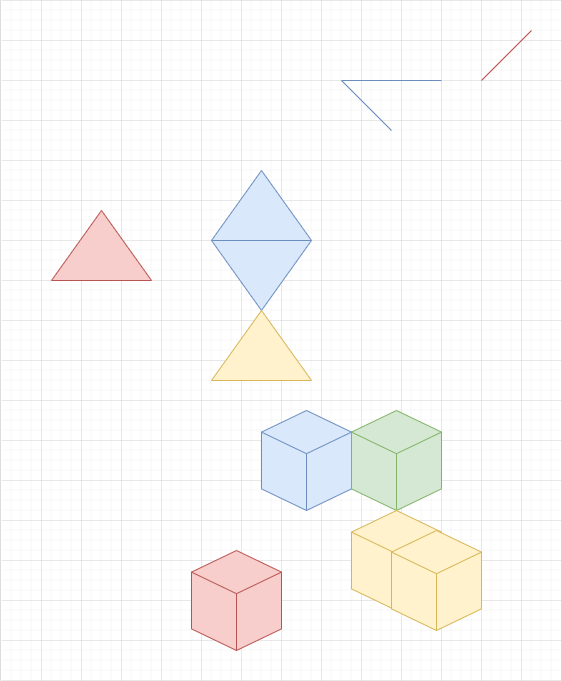
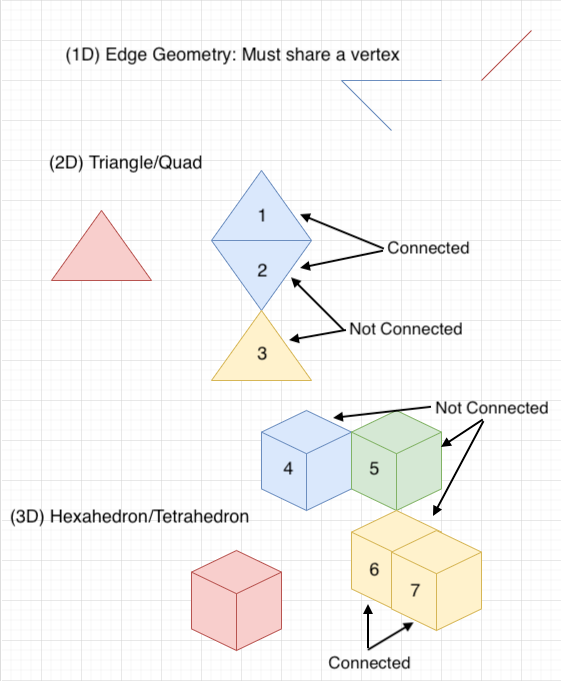
Update documentation, update unit tests. Add new example file

diff --git a/src/Plugins/SimplnxCore/test/CombineStlFilesTest.cpp b/src/Plugins/SimplnxCore/test/CombineStlFilesTest.cpp
@@ -21,16 +21,14 @@ inline const DataPath k_ExemplarTriangleDataContainerName({k_TriangleDataContain
 
 TEST_CASE("SimplnxCore::CombineStlFilesFilter: Valid Filter Execution", "[SimplnxCore][CombineStlFilesFilter]")
 {
-  const nx::core::UnitTest::TestFileSentinel testDataSentinel(nx::core::unit_test::k_CMakeExecutable, nx::core::unit_test::k_TestFilesDir, "6_6_combine_stl_files.tar.gz",
+  const nx::core::UnitTest::TestFileSentinel testDataSentinel(nx::core::unit_test::k_CMakeExecutable, nx::core::unit_test::k_TestFilesDir, "6_6_combine_stl_files_v2.tar.gz",
                                                               "6_6_combine_stl_files.dream3d");
 
-  const nx::core::UnitTest::TestFileSentinel testDataSentinel1(nx::core::unit_test::k_CMakeExecutable, nx::core::unit_test::k_TestFilesDir, "STL_Models.tar.gz", "STL_Models");
-
   // Read Exemplar DREAM3D File Filter
-  auto exemplarFilePath = fs::path(fmt::format("{}/6_6_combine_stl_files.dream3d", unit_test::k_TestFilesDir));
+  auto exemplarFilePath = fs::path(fmt::format("{}/6_6_combine_stl_files_v2/6_6_combine_stl_files.dream3d", unit_test::k_TestFilesDir));
   DataStructure dataStructure = UnitTest::LoadDataStructure(exemplarFilePath);
 
-  std::string inputStlDir = fmt::format("{}/STL_Models", unit_test::k_TestFilesDir.view());
+  std::string inputStlDir = fmt::format("{}/6_6_combine_stl_files_v2/STL_Models", unit_test::k_TestFilesDir.view());
 
   // Instantiate the filter, a DataStructure object and an Arguments Object
   CombineStlFilesFilter filter;

diff --git a/src/Plugins/SimplnxCore/docs/RemoveFlaggedTrianglesFilter.md b/src/Plugins/SimplnxCore/docs/RemoveFlaggedTrianglesFilter.md
@@ -6,20 +6,28 @@ Surface Meshing (Misc)
 
 ## Description
 
-This **Filter** removes **Triangles** from the supplied **Triangle Geometry** that are flagged by a boolean mask array.  
-Specifically, **Triangles** flagged as _true_ are removed from the **Geometry**.  A new reduced **Geometry** is created
-that contains all the remaining **Triangles**.  It is unknown until run time how many **Triangles** will be removed from the
-**Geometry**. Therefore, this **Filter** requires that a new **TriangleGeom** be created to contain the reduced **Triangle Geometry**.  
-This new **Geometry** will NOT contain copies of any **Feature** or **Ensemble** **Attribute Matrices** from the original **Geometry**.  
-Additionally, all **Vertex** data will be copied, with tuples _removed_ for any **Vertices** removed by the **Filter**.  
-The user must supply a name for the reduced **Geometry**.
+This **Filter** removes **Triangles** from the supplied **Triangle Geometry** that are flagged by a boolean mask array as **true**.  A new reduced **Geometry** is created that contains all the remaining **Triangles**.  It is unknown until run time how many **Triangles** will be removed from the **Geometry**. Therefore, this **Filter** requires that a new **TriangleGeom** be created to contain the reduced **Triangle Geometry**. This new **Geometry** will *NOT* contain copies of any **Feature Attribute Matrix** or **Ensemble Attribute Matrix** from the original **Geometry**. 
 
-The mask is expected to be over the triangles themselves so it should be based on something from the **_Face Data_** **Attribute Matrix**, generally we suggest basing the mask on the created **_Region Ids_** array from the _Label Triangle Geometry Filter_.
+- Additionally, all **Vertex** data will be copied, with tuples *removed* for any **Vertices** removed by the **Filter**.  The user must supply a name for the reduced **Geometry**.
 
-_Note:_ Since it cannot be known before run time how many **Vertices** will be removed, the new **Vertex Geometry** and
+The mask is expected to be over the triangles themselves so it should be based on something from the ***Face Data*** **Attribute Matrix**, generally we suggest basing the mask on the created **Region Ids** array from the *Label Triangle Geometry Filter*.
+
+*Note:* Since it cannot be known before run time how many **Vertices** will be removed, the new **Vertex Geometry** and
 all associated **Vertex** data to be copied will be initialized to have size 0.
 
+## Example Output
+
+- The next figure shows a triangle geometry that has had a mask generated. Yellow parts are flagged as true.
+
+![Masked triangle geometries for removal.](Images/RemoveFlaggedTriangles_1.png)
+
+- The next figure shows the result of running the filter.
+
+![Resulting triangle geometry](Images/RemoveFlaggedTriangles_2.png)
+
 % Auto generated parameter table will be inserted here
+
+## Example Pipelines
 
 ## License & Copyright
 

diff --git a/src/Plugins/SimplnxCore/docs/RegularGridSampleSurfaceMesh.md b/src/Plugins/SimplnxCore/docs/RegularGridSampleSurfaceMesh.md
@@ -13,31 +13,7 @@ This **Filter** "samples" a triangulated surface mesh on a rectilinear grid. The
 3. For each bounding box a **Cell** falls in, check against that **Feature's** **Triangle** list to determine if the **Cell** falls within that n-sided polyhedra (*Note:* if the surface mesh is conformal, then each **Cell** will only belong to one **Feature**, but if not, the last **Feature** the **Cell** is found to fall inside of will *own* the **Cell**)
 4. Assign the **Feature** number that the **Cell** falls within to the *Feature Ids* array in the new rectilinear grid geometry
 
-## Parameters
-
-| Name | Type | Description |
-|------------|------| --------------------------------- |
-| Dimensions | uint64 | Number of **Cells** along each axis |
-| Resolution | float32 (3x) | The resolution values (dx, dy, dz) |
-| Origin | float32 (3x) | The origin of the sampling volume |
-
-## Required Geometry
-
-Triangle
-
-## Required Objects
-
-| Type | Default Name | Type | Comp Dims | Description |
-|------|--------------|-----|-----|-----------------------------------|
-| Data Array | Face Labels | int32 | (2) | Specifies which **Features** are on either side of each **Face**. |
-
-## Created
-
-| Kind                      | Default Name | Type     | Comp Dims | Description                                 |
-|---------------------------|--------------|----------|--------|---------------------------------------------|
-| Image Geometry | Image Geometry | N/A | N/A | Created **Image Geometry** name and *DataPath* |
-|   Attribute Matrix   | Cell Data | Cell | N/A | Created **Cell Attribute Matrix** name |
-| Data Array | Feature Ids | int32 | (1) | Specifies to which **Feature** each **Cell** belongs |
+% Auto generated parameter table will be inserted here
 
 ## License & Copyright
 

diff --git a/src/Plugins/SimplnxCore/docs/LabelTriangleGeometryFilter.md b/src/Plugins/SimplnxCore/docs/LabelTriangleGeometryFilter.md
@@ -10,9 +10,19 @@ This **Filter** accepts a **Triangle Geometry** and checks the connectivity of *
 
 Note: Our connectivity is different from other connectivity algorithms, in that it is dependent on the dimensionality of the geometry it is run on. A triangle geometry is two dimensional thus it must share one edge with another triangle to be considered connected. Only one shared vertex will not be enough to count triangles as connected. See the following image for reference:
 
-![Connectivity Image](/Images/connectivity_image.png)
+![Connectivity Image](Images/connectivity_image.png)
 
 The image in question demonstrates what geometric shapes would be considered connected according to matching color scheme. The colors are relative to the shapes dimensionality. Thus the fact there is a yellow triangle and a yellow cube does not mean they are related.
+
+- 1D Geometry: Two edges are considered connected if they share a vertex.
+- 2D Geometry: Triangle and Quad Geometries are considered connected if they share an entire edge. As shown in the image above, Triangles 1 & 2 are connected while triangles 2 & 3 are **not** connected.
+- 3D Geometry: Hexahedron/Tetrahedron: In the image above the hexahedrons 4,5, and 6 are **not** considered connected while 6 & 7 are considered connected.
+
+## Example Output
+
+The image below shows a single STL file that contains 12 different geometries. This filter labeled each geometry with a unique "Region ID" and the visualization is colored by those "Region Ids"
+
+![Filter Output](Images/LabelTriangleGeometry_1.png)
 
 % Auto generated parameter table will be inserted here
 

diff --git a/src/Plugins/SimplnxCore/docs/RemoveFlaggedFeaturesFilter.md b/src/Plugins/SimplnxCore/docs/RemoveFlaggedFeaturesFilter.md
@@ -6,11 +6,11 @@ Processing (Cleanup)
 
 ## Description
 
-This **Filter** will remove **Features** that have been flagged by another **Filter** from the structure.  The **Filter**
-requires that the user point to a boolean array at the **Feature** level that tells the **Filter** whether the **Feature**
-should remain in the structure.  If the boolean array is *false* for a **Feature**, then all **Cells** that belong to that
-**Feature** are temporarily *unassigned*. Optionally, after all *undesired* **Features** are removed, the remaining **Features** are
-isotropically coarsened to fill in the gaps left by the removed **Features**.
+This **Filter** will remove **Features** that have been flagged by another **Filter** from the structure.  The **Filter** requires that the user point to a boolean array at the **Feature** level that tells the **Filter** whether the **Feature** should remain in the structure.  If the boolean array is *false* for a **Feature**, then all **Cells** that belong to that **Feature** are temporarily *unassigned*. Optionally, after all *undesired* **Features** are removed, the remaining **Features** are isotropically coarsened to fill in the gaps left by the removed **Features**.
+
+## Caveats
+
+This filter will **ONLY** run on an Image Geometry.
 
 % Auto generated parameter table will be inserted here
 
